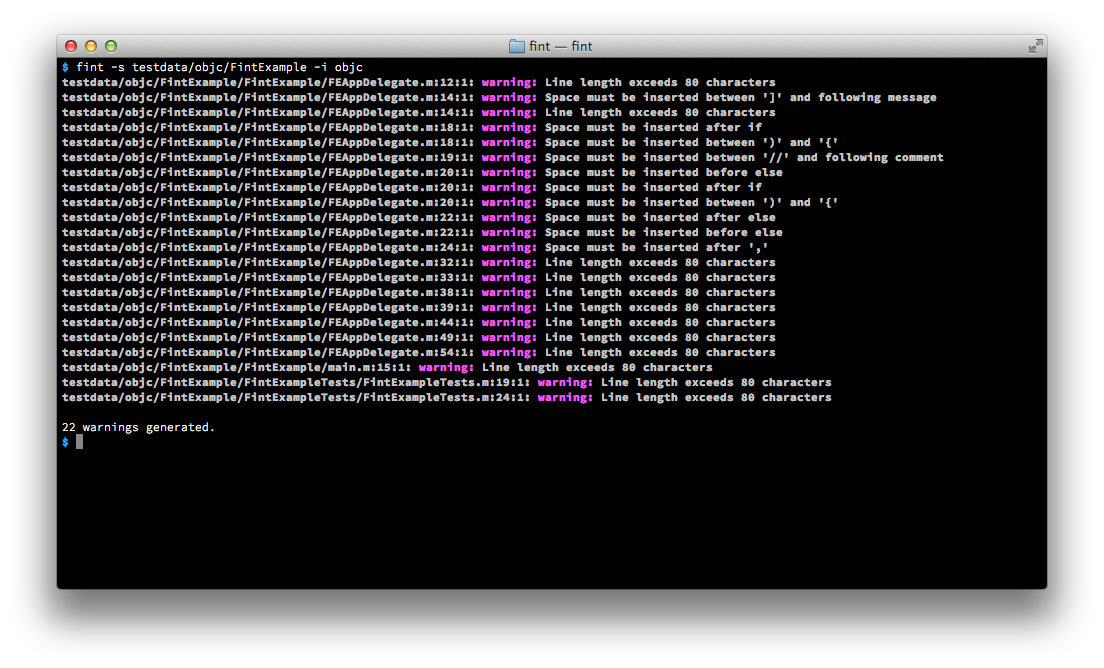
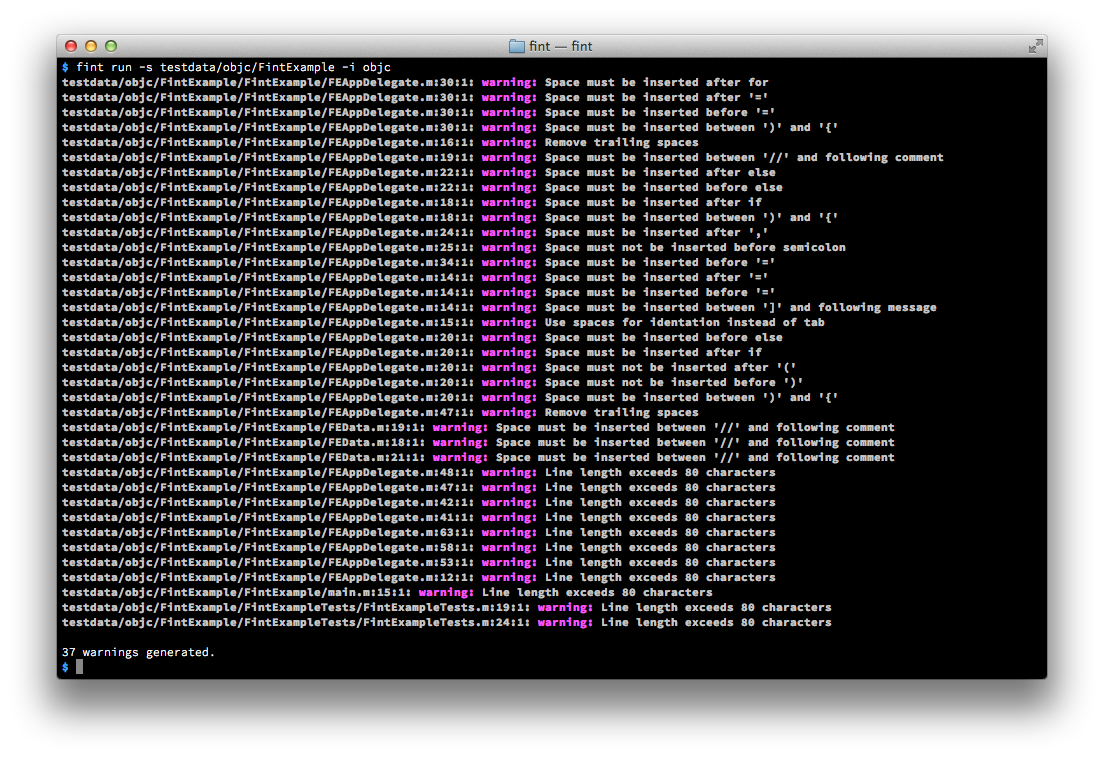
Added command to command-line arguments.
run, version, help is available.

Changed region(s): [[0.0308, 0.0299, 0.9547, 0.8982]]

diff --git a/fint/main.go b/fint/main.go
@@ -11,10 +11,29 @@ import (
 )
 
 const (
-	ExitCodeError = 1
+	ExitCodeSuccess = 0
+	ExitCodeError   = 1
 )
 
 func main() {
+	// Parse command
+	if len(os.Args) == 1 {
+		common.PrintUsage()
+		os.Exit(ExitCodeError)
+	}
+	switch os.Args[1] {
+	case "run":
+	case "version":
+		common.PrintVersion()
+		os.Exit(ExitCodeSuccess)
+	case "help":
+		fallthrough
+	default:
+		common.PrintUsage()
+		os.Exit(ExitCodeError)
+	}
+
+	// Parse flags
 	var (
 		srcRoot    = flag.String("s", "", "Source directory to be checked. Required.")
 		configPath = flag.String("c", ".fint", "Config files directory. Default value is `.fint`.")
@@ -26,7 +45,8 @@ func main() {
 		template   = flag.String("template", "default", "HTML report template name. Default is `default`.")
 		fix        = flag.Bool("fix", false, "Fix violations. Default is `false`.")
 	)
-	flag.Parse()
+	// Parse without filename and command
+	flag.CommandLine.Parse(os.Args[2:])
 
 	err := fint.ExecuteAsCommand(
 		&common.Opt{

diff --git a/common/common.go b/common/common.go
@@ -5,10 +5,13 @@ package common
 
 import (
 	"errors"
+	"fmt"
 )
 
 const (
-	errPrefix      = "fint: "
+	errPrefix = "fint: "
+
+	Version        = "0.4.0"
 	DefaultBufSize = 4096
 	NewlineDefault = "\r\n"
 	Linefeed       = "\n"
@@ -125,4 +128,21 @@ type Violation struct {
 
 func NewError(message string) error {
 	return errors.New(errPrefix + message)
+}
+
+func PrintUsage() {
+	fmt.Println(`fint is a lightweight source code check tool.
+
+Usage:
+	fint command [options]
+
+Command:
+	run      execute lint
+	help     show this help
+	version  show version of fint
+`)
+}
+
+func PrintVersion() {
+	fmt.Println("fint version \"" + Version + "\"")
 }

diff --git a/README.md b/README.md
@@ -28,7 +28,7 @@ If your `GOPATH` is `~/go`, then put the following command
 to shell script form:
 
 ```sh
-TERM=dumb ~/go/bin/fint -s ${SRCROOT}/${PROJECT_NAME} -i objc
+TERM=dumb ~/go/bin/fint run -s ${SRCROOT}/${PROJECT_NAME} -i objc
 ```
 
 If format error found, the command will exit with code 1, otherwise 0.  
@@ -41,7 +41,7 @@ See sample Xcode projects in [`testdata/objc`](https://github.com/ksoichiro/fint
 If you exported `GOPATH` and `${GOPATH}/bin` is in your `PATH` then:
 
 ```sh
-$ fint -s testdata/objc/FintExample -i objc
+$ fint run -s testdata/objc/FintExample -i objc
 testdata/objc/FintExample/FintExample/FEAppDelegate.m:12:1: warning: Line length exceeds 80 characters
 testdata/objc/FintExample/FintExample/FEAppDelegate.m:14:1: warning: Space must be inserted between ']' and following message
 testdata/objc/FintExample/FintExample/FEAppDelegate.m:14:1: warning: Line length exceeds 80 characters
